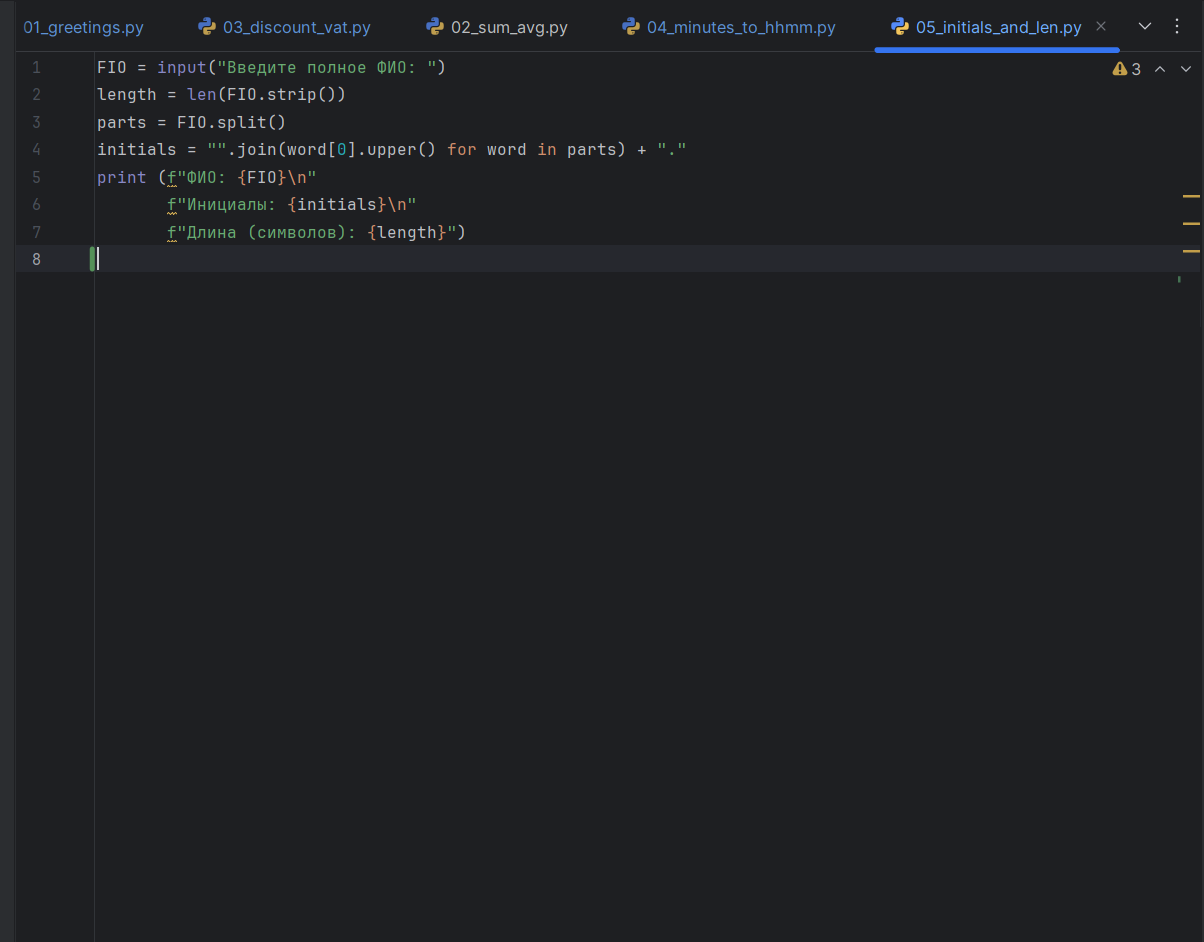
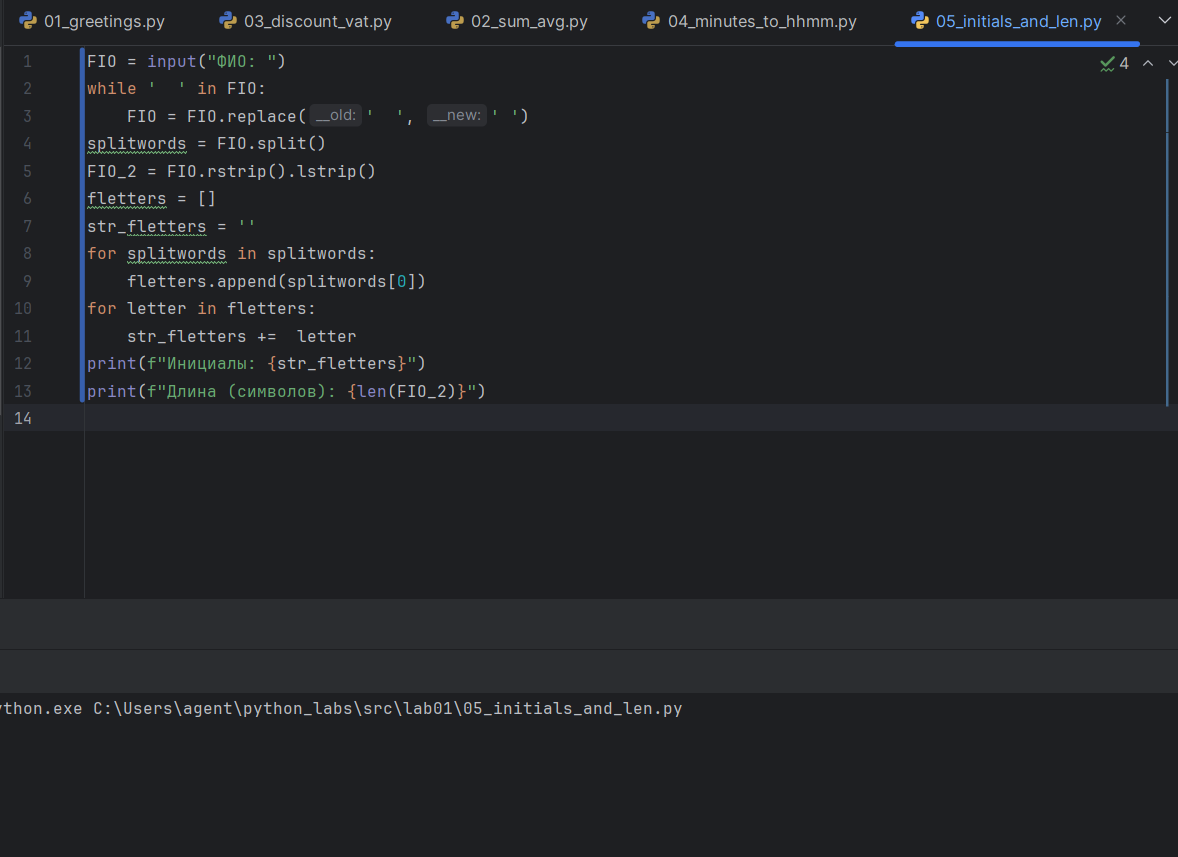
labas07

diff --git a/src/lab01/05_initials_and_len.py b/src/lab01/05_initials_and_len.py
@@ -1,7 +1,13 @@
-FIO = input("Введите полное ФИО: ")
-length = len(FIO.strip())
-parts = FIO.split()
-initials = "".join(word[0].upper() for word in parts) + "."
-print (f"ФИО: {FIO}\n"
-       f"Инициалы: {initials}\n"
-       f"Длина (символов): {length}")
+FIO = input("ФИО: ")
+while '  ' in FIO:
+    FIO = FIO.replace('  ', ' ')
+splitwords = FIO.split()
+FIO_2 = FIO.rstrip().lstrip()
+fletters = []
+str_fletters = ''
+for splitwords in splitwords:
+    fletters.append(splitwords[0])
+for letter in fletters:
+    str_fletters +=  letter
+print(f"Инициалы: {str_fletters}")
+print(f"Длина (символов): {len(FIO_2)}")
